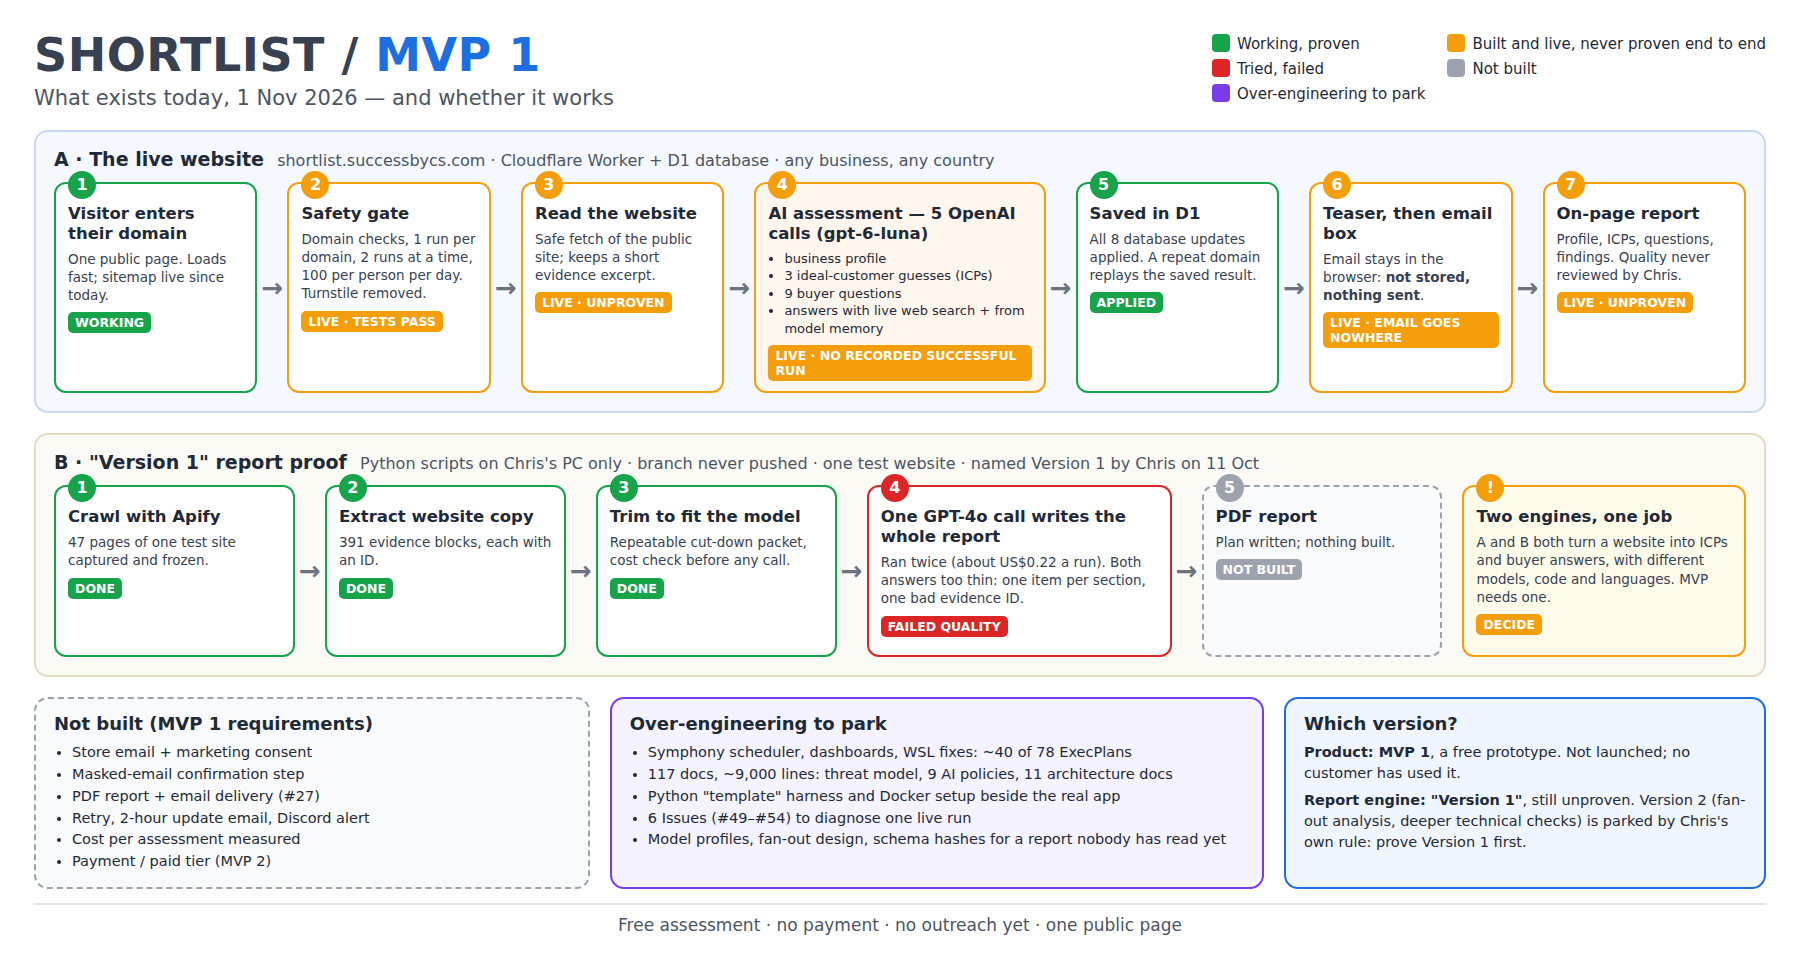
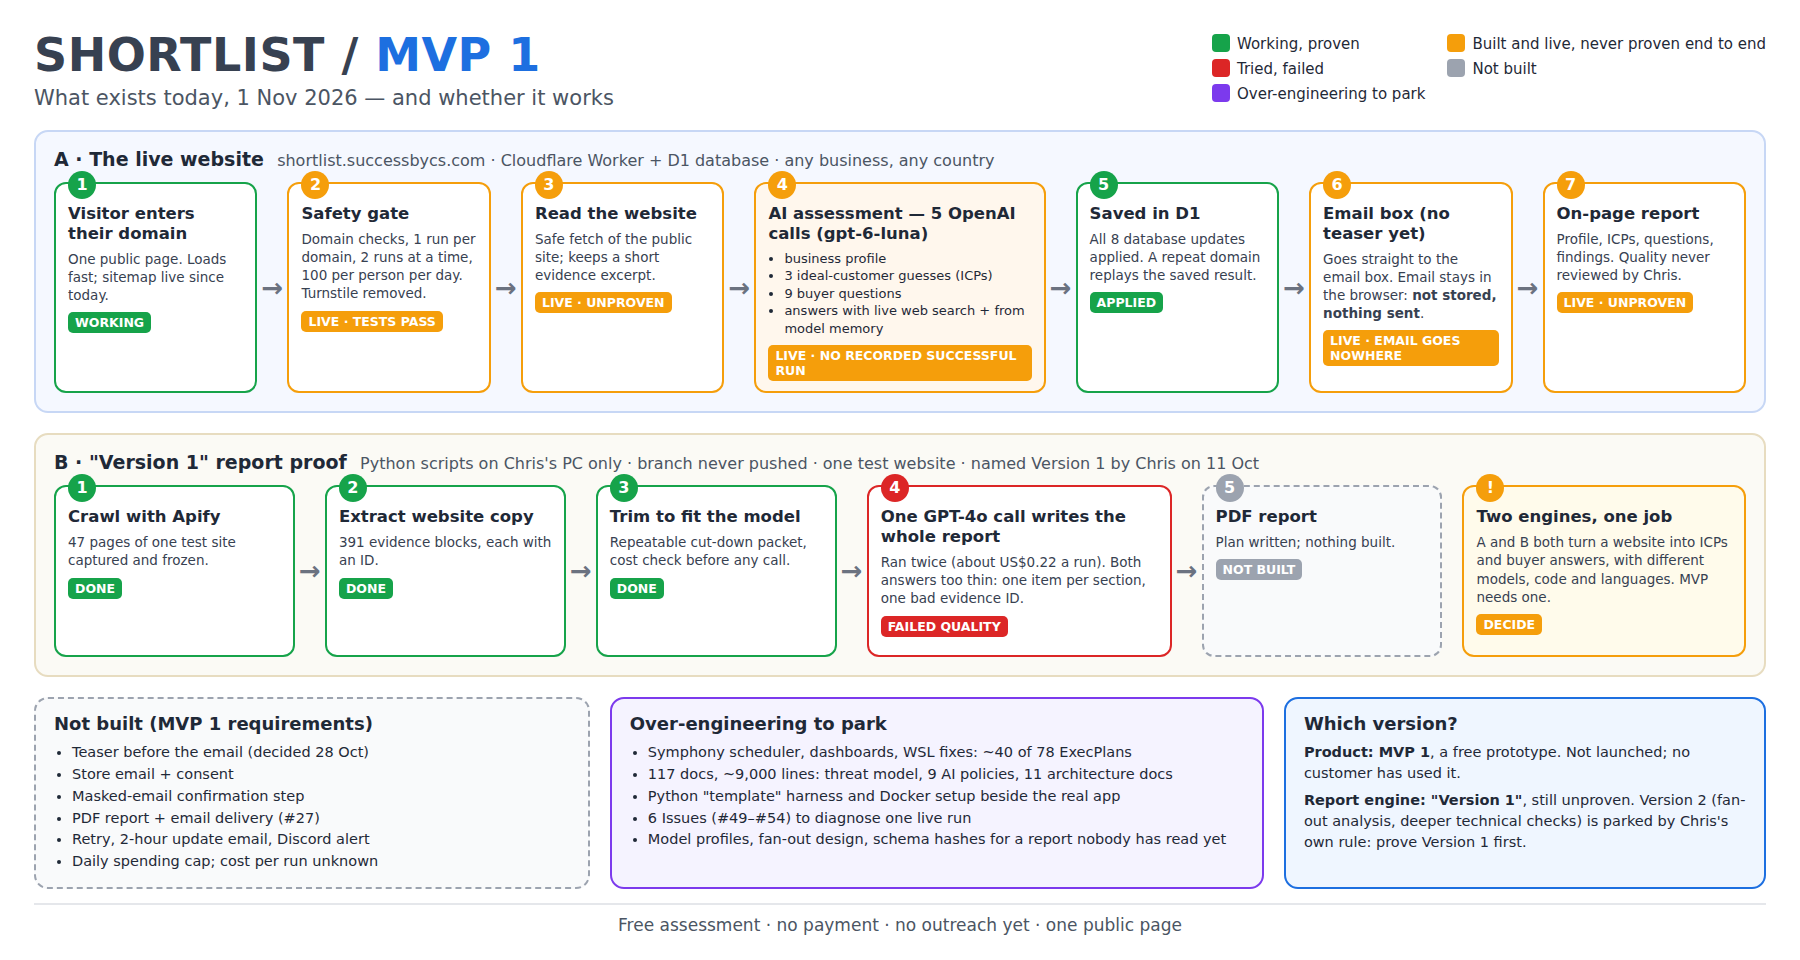
Plan: address review — status line, teaser, privacy, cache, spending cap, safe freeze (#78)

Changed region(s): [[0.0311, 0.7812, 0.2178, 0.9062], [0.7156, 0.2188, 0.84, 0.4062]]

diff --git a/docs/architecture/shortlist-mvp1-status.html b/docs/architecture/shortlist-mvp1-status.html
@@ -57,7 +57,7 @@
     <div class="arrow">→</div>
     <div class="step g2"><div class="num g">5</div><h3>Saved in D1</h3><p>All 8 database updates applied. A repeat domain replays the saved result.</p><span class="tag g">APPLIED</span></div>
     <div class="arrow">→</div>
-    <div class="step a2"><div class="num a">6</div><h3>Teaser, then email box</h3><p>Email stays in the browser: <b>not stored, nothing sent</b>.</p><span class="tag a">LIVE · EMAIL GOES NOWHERE</span></div>
+    <div class="step a2"><div class="num a">6</div><h3>Email box (no teaser yet)</h3><p>Goes straight to the email box. Email stays in the browser: <b>not stored, nothing sent</b>.</p><span class="tag a">LIVE · EMAIL GOES NOWHERE</span></div>
     <div class="arrow">→</div>
     <div class="step a2"><div class="num a">7</div><h3>On-page report</h3><p>Profile, ICPs, questions, findings. Quality never reviewed by Chris.</p><span class="tag a">LIVE · UNPROVEN</span></div>
   </div>
@@ -82,7 +82,7 @@
 
 <div class="bottom">
   <div class="box notbuilt"><h2>Not built (MVP 1 requirements)</h2>
-    <ul><li>Store email + marketing consent</li><li>Masked-email confirmation step</li><li>PDF report + email delivery (#27)</li><li>Retry, 2-hour update email, Discord alert</li><li>Cost per assessment measured</li><li>Payment / paid tier (MVP 2)</li></ul></div>
+    <ul><li>Teaser before the email (decided 28 Oct)</li><li>Store email + consent</li><li>Masked-email confirmation step</li><li>PDF report + email delivery (#27)</li><li>Retry, 2-hour update email, Discord alert</li><li>Daily spending cap; cost per run unknown</li></ul></div>
   <div class="box over"><h2>Over-engineering to park</h2>
     <ul><li>Symphony scheduler, dashboards, WSL fixes: ~40 of 78 ExecPlans</li><li>117 docs, ~9,000 lines: threat model, 9 AI policies, 11 architecture docs</li><li>Python "template" harness and Docker setup beside the real app</li><li>6 Issues (#49–#54) to diagnose one live run</li><li>Model profiles, fan-out design, schema hashes for a report nobody has read yet</li></ul></div>
   <div class="box version"><h2>Which version?</h2>

diff --git a/.agent/execplans/2026-11-01-lean-mvp1-reset.md b/.agent/execplans/2026-11-01-lean-mvp1-reset.md
@@ -1,5 +1,7 @@
 # Lean MVP 1 reset: prove one report with ten real businesses
 
+**Status:** Active (2026-11-01): plan written; four Proposed decisions await Chris's approval before Step 1.
+
 This ExecPlan is a living document and must be maintained under `.agent/PLANS.md`.
 
 ## Purpose / Big Picture
@@ -43,9 +45,11 @@ to it.
 4. **Proof means a real report in a browser.** Unit tests and local builds are
    needed but prove nothing on their own. A dedicated verifier tool is not built
    for MVP 1.
-5. **Keep the safety that exists; add none.** Safe website fetch, domain
-   checks, run limits, no secrets in code or logs, and the cost cap all stay.
-   No new protection layers before real visitors exist.
+5. **Keep the safety that exists; add only what real visitors need.** Safe
+   website fetch, domain checks, run limits, per-call token limits, and no
+   secrets in code or logs all stay. The only new safeguards are the daily
+   spending cap (Step 5) and the privacy handling for stored emails (Step 4).
+   There is no spending cap today.
 6. **Manual before automated.** Chris follows up with people by hand. PDFs,
    delivery emails, retries and alerts wait until ten people have said the
    report is worth having.
@@ -61,8 +65,9 @@ to it.
 - [ ] Step 1b — Fix only the failure Step 1 found (if any).
 - [ ] Step 2 — Chris scores three reports.
 - [ ] Step 3 — Fix report quality (only if Step 2 fails its gate).
-- [ ] Step 4 — Make the email worth something.
-- [ ] Step 5 — Cost and limits for real visitors.
+- [ ] Step 4a — Teaser before the email.
+- [ ] Step 4b — Store the email with consent.
+- [ ] Step 5 — Daily spending cap and visitor limits.
 - [ ] Step 6 — Ten real businesses.
 - [ ] Step 7 — Tidy the Issues (alongside Steps 2–6).
 
@@ -79,6 +84,14 @@ to it.
   locally afterwards.
 - Observation: the email box on the live page keeps the address in the
   browser only. Nothing is stored or sent, so the page collects no leads today.
+- Observation: there is no teaser. A completed assessment goes straight to
+  the email box (`use-assessment-journey.ts` moves `completed` and `cached`
+  results to the `reveal` screen). Chris decided on 28 Oct (#71) that a
+  teaser before the email is the MVP 1 end state (requirement MVP1-JNY-001),
+  so Step 4 builds it.
+- Observation: there is no spending cap. Each OpenAI call has token limits,
+  but the run's cost is stored as empty (`estimatedSpendUsd: null`), and
+  nothing limits total runs per day across the site.
 - Observation: the saved-report lookup ignores the prompt version, so a
   domain replays its first report for good, even after the prompts change.
   Evidence: `findStoredGeoAssessment` selects the latest run by domain only.
@@ -110,9 +123,14 @@ them, and the approval is recorded here and on the Issue.
   Rationale: none of these tests whether the report is valuable. They are
   around a week of work, and #27 alone has five failure paths to prove.
   Date/Author: 2026-11-01, Claude Code (Opus 5.5) for Chris.
-- Decision (Proposed): the email and a consent tick are stored in one new
-  database table, so Chris can follow up by hand.
+- Decision (Proposed): the email, a required "send me this report" tick and
+  an optional "you may contact me" tick are stored in one new table, so Chris
+  can follow up by hand. Retention, the deletion contact and the privacy
+  wording are decided by Chris in Step 4 before any code.
   Rationale: an email that goes nowhere tests nothing.
+  Note: the teaser before the email is already approved (Chris, 28 Oct, #71;
+  MVP1-JNY-001). The live page lacks it, so Step 4 builds it; this is not a
+  change of scope.
   Date/Author: 2026-11-01, Claude Code (Opus 5.5) for Chris.
 - Decision (Proposed): Issues #48–#54 are replaced by Steps 1 and 1b of this
   plan; #11, #14 and #27 are narrowed or parked as Step 7 describes.
@@ -156,9 +174,9 @@ database called `shortlist-mvp1`). A visit runs:
    web search, one from the model's own knowledge.
 5. Everything is saved in D1 (`geo-assessment-repository.ts`). A repeat of
    the same domain replays the saved result without new model calls.
-6. The visitor sees a teaser and an email box
-   (`apps/web/src/components/assessment/journey-screens.tsx`). The email is not
-   sent anywhere.
+6. The visitor goes straight to an email box
+   (`apps/web/src/components/assessment/journey-screens.tsx`); there is no
+   teaser yet. The email is not stored or sent anywhere.
 7. The full report is shown on the page.
 
 **Engine B: the "Version 1" proof.** Python scripts in `scripts/` plus
@@ -181,24 +199,35 @@ in `src/shortlist/`, and most of `docs/harness/`, `docs/ai/` and
 
 The steps run in order, and each has a gate. Step 7 runs alongside Steps 2–6.
 
-### Step 0 — Back up and freeze (30 minutes, no approval needed)
+### Step 0 — Back up and freeze (30 minutes; Chris confirms before anything is stashed or stopped)
 
-On Chris's PC, in `/home/chris/ShortList`, save the proof work privately and
-leave the checkout on `main`:
+The proof work on Chris's PC, in `/home/chris/ShortList` on branch
+`discovery/core-assessment-proof`, is mostly uncommitted and includes a
+third-party site crawl under `data/core-proof-runs/`. Nothing from it is
+committed, staged or pushed: the repository is public.
 
-    cd /home/chris/ShortList
-    git stash list   # note anything already stashed
-    tar -czf /home/chris/backups/shortlist-version1-proof-2026-11-01.tar.gz \
-      --exclude=apps/web/node_modules --exclude=.venv .
-    git add -A && git commit -m "Park Version 1 proof work (local only, not for push)"
-    git switch main && git pull --ff-only
+1. Show Chris `git status --short` and confirm it is only the proof work, with
+   no `.env` or key files. If anything else appears, stop and ask.
+2. Copy the whole folder to a private backup outside any repository:
 
-Do **not** push `discovery/core-assessment-proof`. It contains a third-party
-site crawl, and the repository is public. Confirm no Symphony process is
-running (`ps -ef | grep -i symphony`); if one is, stop it by PID.
+       cd /home/chris
+       tar -czf /home/chris/backups/shortlist-version1-proof-2026-11-01.tar.gz \
+         --exclude=ShortList/apps/web/node_modules --exclude=ShortList/.venv ShortList
 
-Gate: the backup file exists and is larger than 1 MB, and `git status` on
-`main` is clean.
+3. Park the uncommitted work in a local stash. A stash never leaves the PC
+   unless someone pushes it deliberately:
+
+       cd /home/chris/ShortList
+       git stash push --include-untracked -m "Version 1 proof work, parked 2026-11-01 (never push)"
+       git switch main && git pull --ff-only
+
+4. List any Symphony processes with `ps -ef | grep -i [s]ymphony`. If one is
+   running, show Chris its PID and command line, and stop only that PID
+   (`kill <pid>`) after he agrees.
+
+Gate: the backup exists and is larger than 1 MB, `tar -tzf` lists
+`ShortList/data/core-proof-runs/`, `git stash list` shows the parked entry,
+and `git status` on `main` is clean.
 
 ### Step 1 — One live run, with Chris watching (1 hour; Chris approves one run)
 
@@ -257,45 +286,114 @@ lessons:
 - require a minimum number of items and reject answers that fall short;
 - reject evidence IDs that were not in the input.
 
-Today the cache lookup (`findStoredGeoAssessment` in
-`geo-assessment-repository.ts`) returns the latest report for a domain
-whatever prompt version made it. So a domain, once assessed, replays its old
-report forever. Change the lookup so it only replays reports made by the
-current approved prompt version, and add one test for that. Then re-run the
-same three domains, re-score, and record both rounds.
+The new version also has to change which version runs, and what the cache
+replays:
+
+- **Which version runs.** The Worker is pinned to prompt package version
+  `1.0.0` when it loads its configuration. Make the version label one setting
+  (a constant in the same place it is set today). Moving to the new version is
+  then a one-line change, reviewed in the PR.
+- **What the cache replays.** `runLiveAssessment` in `live-assessment.ts`
+  checks the cache (`findStoredGeoAssessment` in
+  `geo-assessment-repository.ts`) *before* it loads the configuration. The
+  query selects the latest run for the domain, whatever prompt version made
+  it, so a domain replays its first report forever. Change the order: load
+  the configuration first, then pass the current prompt package version ID
+  into the lookup. The lookup joins the run's configuration snapshot
+  (`assessment_configuration_snapshots`) and only returns reports made with
+  that version. The older comparable-business fallback lookup stays as it is.
+- **Tests:** a report made with the current version is replayed with no
+  model calls; a report made with an older version is not replayed, and a new
+  run starts.
+
+Then re-run the same three domains, re-score, and record both rounds.
 If the gate still fails after two rounds, stop. Chris decides whether the
 report format, the model or the product question needs to change.
 
-### Step 4 — Make the email worth something (one day; deploy needs Chris's OK)
+### Step 4 — Teaser, then an email that counts (two parts of one day each; privacy wording and deploy need Chris's OK)
 
-- Add one D1 table, `report_requests`: assessment run ID, email,
-  `contact_ok` (the visitor ticked "you may contact me about this report"),
-  created time (UTC). One new migration.
-- The email box saves to it through a server function, then reveals the full
-  report. Validation: a basic email format check and the existing rate limit.
-  No confirmation step, no emails sent.
-- Add a one-sentence privacy note under the box and ask Chris to approve its
-  wording: what is kept, why, and that it is deleted on request.
+Step 4a is the teaser; Step 4b is storing the email. Each is its own PR and deploy.
+
+**Before any code, Chris decides and records in the Decision Log:**
+
+- how long emails are kept (suggested: 12 months, then deleted);
+- the contact address for "delete my email" requests;
+- the wording of the privacy note under the email box;
+- what the two ticks mean. "Send me this report" is required and covers only
+  this report. "You may contact me about ShortList" is optional, unticked by
+  default, and is the only basis for any follow-up beyond this report. The
+  requirements call them delivery consent and optional marketing consent.
+
+**Step 4a — Teaser (MVP1-JNY-001, decided by Chris on 28 Oct in #71).** After a
+completed or cached assessment, show the business profile and the three ICP
+names with the date of the observation. The buyer questions and findings stay
+blurred until the email step. This is a change to the existing screens and
+journey state, not a new page.
+
+**Step 4b — Storing the email:**
+
+- One new migration adds `report_requests`: request ID, assessment run ID,
+  normalised email (trimmed and lower-cased), `report_ok` (always 1),
+  `contact_ok` (0 or 1), created time (UTC). There is no other personal data,
+  and the IP is not stored.
+- A new server function accepts only a run ID that exists and is completed,
+  plus the email and the ticks. It checks the email's format and length, and
+  limits writes with the existing privacy-preserving IP hash: at most 5
+  requests per visitor per UTC day, in a new counter table using the same
+  atomic pattern as `assessment_ip_day_limits`. It returns only "saved" or a
+  plain error. It never returns or logs an email, its own or anyone else's,
+  and diagnostics record only the outcome category.
+- After saving, the full report is revealed. No confirmation step, no emails
+  sent.
 - Add a print stylesheet so the browser's "Save as PDF" gives a clean report.
-- Give Chris one command to list recent requests, run on his PC:
 
-      npx wrangler d1 execute shortlist-mvp1 --remote --command \
-        "SELECT created_at_utc, email, contact_ok FROM report_requests ORDER BY created_at_utc DESC LIMIT 50"
+**Tests:** an unknown or unfinished run ID is refused; the sixth request in a
+day is refused; the response and the diagnostic event contain no email; the
+teaser shows the profile and ICPs but not the questions or findings; the
+report is revealed only after saving.
 
-Gate: Chris submits a test request on the live site and sees it in the list.
+**Deleting on request:** Chris runs one documented `DELETE ... WHERE email
+= ?` command and records only the date and "deleted" in a private note, not
+the address.
+
+**Reading the list (operator only).** Chris runs this on his own PC. The
+output contains personal data and is never pasted into an Issue, PR, chat,
+log or this plan:
+
+    npx wrangler d1 execute shortlist-mvp1 --remote --command \
+      "SELECT created_at_utc, email, contact_ok FROM report_requests ORDER BY created_at_utc DESC LIMIT 50"
+
+Gate: on the live site, Chris sees the teaser, submits his own email, sees
+the full report, and finds his row in the list. Record only "row present" in
+this plan.
 
 ### Step 5 — Cost and limits for real visitors (half a day; deploy needs Chris's OK)
 
-- Using the per-run cost from Steps 1–3, set a site-wide daily run cap so the
-  worst day costs no more than an amount Chris chooses (suggested: US$5 a
-  day). The existing two-at-once limit stays.
+- **The price assumption.** Take the highest per-run cost measured in Steps
+  1–3 and add 50%. Chris approves this figure and a daily budget (suggested:
+  US$5). The cap is the budget divided by the per-run figure, rounded down.
+  Record all three numbers in the Decision Log.
+- **The cap.** Add one new migration with a `site_day_runs` table, one row per
+  UTC day. At admission, after the per-visitor check passes, reserve a slot
+  with the same atomic `INSERT ... ON CONFLICT ... DO UPDATE ... WHERE count <
+  cap` pattern that `assessment_ip_day_limits` uses. The update only happens
+  while there is room, so two runs at once cannot both take the last slot. If
+  the reservation fails, release the admission leases as the per-visitor check
+  already does, and return a new `daily_capacity_reached` outcome.
+- **Failed runs still count.** A run that fails after admission keeps its
+  slot, because the money may already be spent. This errs on the side of
+  spending less. Replays from the cache never reserve a slot.
 - Lower `MAX_STARTS_PER_UTC_DAY` from the testing value of 100 to 5 per
   visitor.
-- When the daily cap is reached, the page says so plainly and asks the
+- The page says plainly that today's free checks are used up and asks the
   visitor to try tomorrow.
 
-Gate: a test that sets the cap to 1 shows the honest message on the second
-run.
+**Tests:** with the cap set to 1, two reservations at once give exactly one
+success; the second visitor sees the capacity message; a cached replay works
+after the cap is reached; a failed run does not give its slot back.
+
+Gate: the tests pass, and after deploy Chris sees the cap figure in the
+Decision Log match the deployed setting.
 
 ### Step 6 — Ten real businesses (one to two weeks, led by Chris)
 
